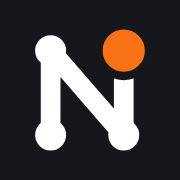
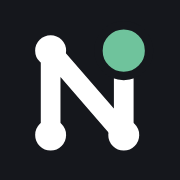
Switch the brand accent from orange to Travelpin's pin green
Logo dot, favicon and app icons, share images, live tag, story rings, key moments and highlights now use #4B9C78, with #2B6F51 for text on light backgrounds and #6FC39C in dark mode. Category and rate-hike colours are unchanged.

Claude-Session: https://claude.ai/code/session_01XiGkiipVdDWiMyZxtu2FGu

Changed region(s): [[0.5556, 0.1389, 0.8056, 0.4167]]

diff --git a/static/styles.css b/static/styles.css
@@ -1,6 +1,6 @@
 :root{color-scheme:light;
   --bg:#F7F7F4; --surface:#FFFFFF; --ink:#15171C; --ink-2:#3A3F4A; --muted:#4A4F59; --line:#E3E3DE; --line-2:#ECECE7;
-  --blue:#1D4ED8; --blue-bg:#E8EEFD; --blue-line:#B9C7EE; --orange:#C2410C; --orange-ink:#9A3412; --orange-bg:#FCEBDD;
+  --blue:#1D4ED8; --blue-bg:#E8EEFD; --blue-line:#B9C7EE; --orange:#C2410C; --pin:#4B9C78; --pin-ink:#2B6F51; --pin-bg:#E8F4EE; --orange-ink:#9A3412; --orange-bg:#FCEBDD;
   --teal:#0F6B5C; --teal-ink:#0F5B4E; --teal-bg:#E3F2EE; --purple:#5B3A9A; --purple-bg:#F3EEFB; --gray-bg:#EEEEEA;
   --serif:"Newsreader",Georgia,"Times New Roman",serif; --sans:"Inter",system-ui,-apple-system,"Segoe UI",Roboto,sans-serif;
 }
@@ -48,7 +48,7 @@ button{font-family:inherit}
 .pill-cat{background:var(--c-bg);color:var(--c-ink)}
 .status{display:inline-flex;align-items:center;gap:7px;font-size:12px;font-weight:700;background:#fff;padding:5px 10px;border-radius:999px}
 .status::before{content:"";width:8px;height:8px;border-radius:50%;background:currentColor}
-.tone-hot{color:var(--orange-ink)} .tone-live{color:var(--teal)} .tone-wait{color:var(--blue)} .tone-quiet{color:var(--muted)}
+.tone-hot{color:var(--pin-ink)} .tone-live{color:var(--teal)} .tone-wait{color:var(--blue)} .tone-quiet{color:var(--muted)}
 .tone-hot::before{animation:npPulse 1.8s ease-out infinite}
 @keyframes npPulse{0%{box-shadow:0 0 0 0 rgba(194,65,12,.45)}70%{box-shadow:0 0 0 10px rgba(194,65,12,0)}100%{box-shadow:0 0 0 0 rgba(194,65,12,0)}}
 @media (prefers-reduced-motion:reduce){*{animation:none!important;transition:none!important}}
@@ -84,7 +84,7 @@ button{font-family:inherit}
 .cal ol{margin:0;padding:0;list-style:none}
 .cal li{display:flex;gap:14px;padding:10px 0;border-bottom:1px solid var(--line-2)} .cal li:last-child{border-bottom:0}
 .cal .when{flex:0 0 108px;font-size:13px;font-weight:700}
-.cal .when.today{color:var(--orange-ink)}
+.cal .when.today{color:var(--pin-ink)}
 .cal .what{font-size:14px;line-height:1.45} .cal .what a{color:var(--muted);text-decoration:none} .cal .what a:hover{text-decoration:underline}
 .chain{background:var(--surface);border:1px solid var(--line);border-radius:18px;padding:20px 24px;display:flex;flex-direction:column;gap:12px;margin-top:24px}
 .chain-head{display:flex;flex-wrap:wrap;justify-content:space-between;gap:8px;align-items:baseline}
@@ -101,7 +101,7 @@ button{font-family:inherit}
 .cards{display:flex;flex-wrap:wrap;gap:18px}
 .card{background:var(--surface);border:1px solid var(--line);border-radius:20px;overflow:hidden;display:flex;flex-direction:column;min-width:0;flex:1 1 260px}
 .card.featured{flex:1 1 520px}
-.card.hot{border:2px solid var(--orange)}
+.card.hot{border:2px solid var(--pin)}
 .card[hidden]{display:none}
 .card-band{background:var(--c-bg);padding:18px 20px;display:flex;flex-direction:column;gap:6px}
 .card-band .row{display:flex;align-items:center;justify-content:space-between;gap:8px}
@@ -156,7 +156,7 @@ button{font-family:inherit}
 .keynums .l{font-size:12px;color:var(--muted)}
 .keynums .v{font-family:var(--serif);font-size:28px;font-weight:600;line-height:1.15}
 .keynums .v.word{font-size:21px;padding-top:4px}
-.keynums .n{font-size:12px;color:var(--muted)} .keynums .n.hot{color:var(--orange-ink);font-weight:600}
+.keynums .n{font-size:12px;color:var(--muted)} .keynums .n.hot{color:var(--pin-ink);font-weight:600}
 .story-track{background:var(--surface);border:1px solid var(--line);border-radius:16px;padding:16px 20px 10px}
 .newbar{background:var(--ink);color:#fff;border-radius:16px;padding:18px 22px;display:flex;flex-wrap:wrap;align-items:center;justify-content:space-between;gap:14px}
 .newbar[hidden]{display:none}
@@ -179,7 +179,7 @@ button{font-family:inherit}
 .ev-rail .d{width:14px;height:14px;border-radius:50%;box-sizing:border-box}
 .ev-card{flex:1 1 auto;min-width:0;padding:8px 0 14px}
 .ev-card article{background:#fff;border:1px solid var(--line);border-radius:14px;padding:16px 20px;display:flex;flex-direction:column;gap:10px}
-.ev.key .ev-card article{border:2px solid var(--orange);box-shadow:0 6px 18px rgba(194,65,12,.10)}
+.ev.key .ev-card article{border:2px solid var(--pin);box-shadow:0 6px 18px rgba(75,156,120,.14)}
 .ev-tags{display:flex;flex-wrap:wrap;gap:8px;align-items:center}
 .ev-status{font-size:12px;color:var(--muted);display:inline-flex;align-items:center;gap:4px}
 .badge-new{font-size:12px;font-weight:700;padding:3px 9px;border-radius:999px;background:var(--ink);color:#fff}
@@ -293,7 +293,7 @@ button{font-family:inherit}
 .bubbles::-webkit-scrollbar{display:none}
 .bubble{display:flex;flex-direction:column;align-items:center;gap:6px;width:78px;background:none;border:0;padding:0;cursor:pointer;color:var(--ink);font-family:inherit}
 .bubble .ring{width:64px;height:64px;border-radius:50%;border:3px solid var(--line);padding:3px;box-sizing:border-box;display:block}
-.bubble.new .ring{border-color:#F0531C}
+.bubble.new .ring{border-color:var(--pin)}
 .bubble .face{width:100%;height:100%;border-radius:50%;display:flex;align-items:center;justify-content:center;color:#fff;font-family:"Inter Tight",var(--sans);font-weight:800;font-size:20px}
 .bubble .bl{font-size:12px;font-weight:600;max-width:78px;white-space:nowrap;overflow:hidden;text-overflow:ellipsis}
 .bubble:hover .ring{transform:scale(1.05)}
@@ -302,8 +302,8 @@ button{font-family:inherit}
 .lead{--surface:#151821;--ink:#F2F4F7;--muted:#A3AAB8;--line:#252A35;background:#0B0D12;color:#F2F4F7;border-radius:28px;padding:40px 44px;display:flex;flex-wrap:wrap;gap:28px;margin-top:22px}
 .lead-main{flex:7 1 420px;min-width:0;display:flex;flex-direction:column;gap:16px}
 .lead-tags{display:flex;flex-wrap:wrap;gap:12px;align-items:center}
-.live-tag{display:inline-flex;align-items:center;gap:8px;font-size:12px;font-weight:700;letter-spacing:.06em;text-transform:uppercase;color:#FF7A45}
-.live-tag::before{content:"";width:8px;height:8px;border-radius:50%;background:#FF7A45;box-shadow:0 0 0 4px rgba(255,122,69,.2);animation:npPulse 1.8s ease-out infinite}
+.live-tag{display:inline-flex;align-items:center;gap:8px;font-size:12px;font-weight:700;letter-spacing:.06em;text-transform:uppercase;color:#6FC39C}
+.live-tag::before{content:"";width:8px;height:8px;border-radius:50%;background:#6FC39C;box-shadow:0 0 0 4px rgba(111,195,156,.22);animation:npPulse 1.8s ease-out infinite}
 .lead-cat{font-size:12px;font-weight:700;letter-spacing:.08em;text-transform:uppercase;color:#A3AAB8}
 .lead h2{margin:0;font-family:"Inter Tight",var(--sans);font-size:clamp(34px,5vw,60px);line-height:1.03;font-weight:800;letter-spacing:-.035em}
 .lead h2 a{color:inherit;text-decoration:none} .lead h2 a:hover{text-decoration:underline;text-decoration-thickness:3px}
@@ -318,7 +318,7 @@ button{font-family:inherit}
 .lead-stat .lbl2{font-size:12px;font-weight:700;letter-spacing:.08em;text-transform:uppercase;color:#A3AAB8;display:block;margin-bottom:6px}
 .lead-stat div{display:flex;flex-wrap:wrap;align-items:baseline;gap:12px}
 .lead-big{font-family:"Inter Tight",var(--sans);font-size:clamp(44px,6vw,68px);font-weight:800;letter-spacing:-.04em;line-height:1}
-.lead-delta{font-size:15px;font-weight:700;color:#FF7A45}
+.lead-delta{font-size:15px;font-weight:700;color:#6FC39C}
 .lead-note{font-size:13px;color:#A3AAB8}
 .lead .track .tl-top{color:#F2F4F7} .lead .track .now{background:#F2F4F7} .lead .track .now-l{color:#F2F4F7} .lead .track .next-l{color:#9DB2FF}
 .lead .track .past{opacity:.5}
@@ -327,7 +327,7 @@ button{font-family:inherit}
 .strip{display:flex;flex-wrap:wrap;align-items:center;gap:8px;margin-top:18px}
 .strip-l{font-size:12px;font-weight:800;letter-spacing:.1em;text-transform:uppercase;color:var(--muted);margin-left:6px}
 .strip-l:first-child{margin-left:0}
-.strip-l.hot{color:#C93D0E}
+.strip-l.hot{color:var(--pin-ink)}
 .tchip{padding:8px 14px;border-radius:999px;background:var(--surface);border:1px solid var(--line);font-size:13px;font-weight:600;color:var(--ink);text-decoration:none}
 .tchip:hover{border-color:var(--muted);color:var(--ink)}
 
@@ -393,9 +393,9 @@ button{font-family:inherit}
 [data-theme="dark"] .btn-follow{background:#3D63F5;border-color:#3D63F5}
 [data-theme="dark"] .btn-follow[aria-pressed="true"]{background:#1A2447;color:#B9C7FF;border-color:#33447A}
 [data-theme="dark"] .status{background:#0B0D12}
-[data-theme="dark"] .tone-hot{color:#FF9E73} [data-theme="dark"] .tone-live{color:#5FC7AE} [data-theme="dark"] .tone-wait{color:#8FA8FF}
+[data-theme="dark"] .tone-hot{color:#7DD3AA} [data-theme="dark"] .tone-live{color:#5FC7AE} [data-theme="dark"] .tone-wait{color:#8FA8FF}
 [data-theme="dark"] .delta{background:rgba(0,0,0,.35)}
-[data-theme="dark"] .card.hot,[data-theme="dark"] .ev.key .ev-card article{border-color:#FF7A45}
+[data-theme="dark"] .card.hot,[data-theme="dark"] .ev.key .ev-card article{border-color:#6FC39C}
 [data-theme="dark"] .latest .d{background:#F2F4F7;color:#0B0D12}
 [data-theme="dark"] .seg{background:#1E222B} [data-theme="dark"] .seg button[aria-pressed="true"]{background:#2A2F3B;color:var(--ink);box-shadow:none}
 [data-theme="dark"] .ev-card article{background:var(--surface);border-color:var(--line)}
@@ -408,7 +408,7 @@ button{font-family:inherit}
 [data-theme="dark"] .toast{background:#F2F4F7;color:#0B0D12}
 [data-theme="dark"] .ev-rail .l1,[data-theme="dark"] .ev-rail .l2,[data-theme="dark"] .tl-b .tl-wrap::before{background:#2E3440}
 [data-theme="dark"] .lead{background:#000;border:1px solid #1E222B}
-[data-theme="dark"] .strip-l.hot{color:#FF9E73}
+[data-theme="dark"] .strip-l.hot{color:#7DD3AA}
 [data-theme="dark"] input{background:var(--surface);color:var(--ink);border-color:var(--line)}
 [data-theme="dark"] .track .tl-top,[data-theme="dark"] .track .now-l{color:var(--ink)} [data-theme="dark"] .track .now{background:var(--ink)}
 [data-theme="dark"] .track .next-l{color:#9DB2FF}
@@ -425,15 +425,15 @@ button{font-family:inherit}
 .np-player{position:fixed;left:50%;bottom:16px;transform:translateX(-50%);z-index:60;width:min(640px,calc(100vw - 24px));box-sizing:border-box;display:flex;align-items:center;gap:12px;padding:10px 10px 10px 18px;border-radius:20px;background:#0B0D12;color:#F2F4F7;box-shadow:0 10px 30px rgba(0,0,0,.25)}
 .np-player[hidden]{display:none}
 .pl-info{flex:1 1 auto;min-width:0;display:flex;flex-direction:column}
-.pl-kick{font-size:11px;font-weight:800;letter-spacing:.08em;text-transform:uppercase;color:#FF7A45}
+.pl-kick{font-size:11px;font-weight:800;letter-spacing:.08em;text-transform:uppercase;color:#6FC39C}
 .pl-now{font-size:14px;font-weight:600;white-space:nowrap;overflow:hidden;text-overflow:ellipsis}
 .pl-ctrls{display:flex;gap:6px;flex:0 0 auto}
 .pl-ctrls button{min-width:44px;height:44px;border-radius:50%;border:0;background:#1E222B;color:#fff;font:700 14px/1 var(--sans);cursor:pointer}
 .pl-ctrls .pl-pp{background:#fff;color:#0B0D12}
 .pl-ctrls .pl-rate{border-radius:999px;padding:0 10px}
-.pl-ctrls button:focus-visible,.briefing-btn:focus-visible{outline:2px solid #FF7A45;outline-offset:2px}
+.pl-ctrls button:focus-visible,.briefing-btn:focus-visible{outline:2px solid var(--pin);outline-offset:2px}
 body.has-player{padding-bottom:90px}
-.ev.speaking .ev-card article{box-shadow:0 0 0 3px #FF7A45}
+.ev.speaking .ev-card article{box-shadow:0 0 0 3px var(--pin)}
 .sm-tools{display:flex;gap:8px}
 .sm-listen{width:44px;height:44px;border-radius:50%;border:0;background:rgba(255,255,255,.15);color:#fff;font-size:18px;cursor:pointer}
 .sm-listen[aria-pressed="true"]{background:#fff}
@@ -443,3 +443,5 @@ body.has-player{padding-bottom:90px}
 [data-theme="dark"] .pl-ctrls .pl-pp{background:#F2F4F7;color:#0B0D12}
 .tl-order{margin:0 0 12px;font-size:12px;font-weight:700;letter-spacing:.08em;text-transform:uppercase;color:var(--muted)}
 .foot-note{flex-basis:100%;margin:6px 0 0;font-size:12px;color:var(--muted)}
+
+[data-theme="dark"]{--pin:#6FC39C;--pin-ink:#7DD3AA;--pin-bg:#12291F}

diff --git a/build.py b/build.py
@@ -42,8 +42,8 @@ ICON_SHARE = '<svg width="18" height="18" viewBox="0 0 24 24" fill="none" stroke
 ICON_CHEV = '<svg class="chev" width="16" height="16" viewBox="0 0 24 24" fill="none" stroke="currentColor" stroke-width="2.2" stroke-linecap="round" stroke-linejoin="round" aria-hidden="true"><polyline points="6 9 12 15 18 9"></polyline></svg>'
 ICON_CHECK = '<svg width="14" height="14" viewBox="0 0 24 24" fill="none" stroke="currentColor" stroke-width="2.2" stroke-linecap="round" stroke-linejoin="round" aria-hidden="true"><polyline points="20 6 9 17 4 12"></polyline></svg>'
 ICON_WARN = '<svg width="18" height="18" viewBox="0 0 24 24" fill="none" stroke="#9A3412" stroke-width="2" stroke-linecap="round" stroke-linejoin="round" aria-hidden="true"><path d="M10.29 3.86 1.82 18a2 2 0 0 0 1.71 3h16.94a2 2 0 0 0 1.71-3L13.71 3.86a2 2 0 0 0-3.42 0z"></path><line x1="12" y1="9" x2="12" y2="13"></line><line x1="12" y1="17" x2="12.01" y2="17"></line></svg>'
-LOGO_SVG = '<svg width="30" height="30" viewBox="0 0 64 64" aria-hidden="true"><path d="M16 50V14L48 50V14" fill="none" stroke="currentColor" stroke-width="6" stroke-linecap="round" stroke-linejoin="round"></path><circle cx="16" cy="50" r="5" fill="currentColor"></circle><circle cx="16" cy="14" r="5" fill="currentColor"></circle><circle cx="48" cy="50" r="5" fill="currentColor"></circle><circle cx="48" cy="14" r="8" fill="#C2410C" stroke="var(--surface,#fff)" stroke-width="3"></circle></svg>'
-FAVICON = '<svg xmlns="http://www.w3.org/2000/svg" viewBox="0 0 64 64"><rect width="64" height="64" rx="15" fill="#15171C"/><path d="M18 48V18L44 48V18" fill="none" stroke="#FFFFFF" stroke-width="7" stroke-linecap="round" stroke-linejoin="round"/><circle cx="18" cy="48" r="5.5" fill="#FFFFFF"/><circle cx="18" cy="18" r="5.5" fill="#FFFFFF"/><circle cx="44" cy="48" r="5.5" fill="#FFFFFF"/><circle cx="44" cy="18" r="9" fill="#F97316" stroke="#15171C" stroke-width="3"/></svg>'
+LOGO_SVG = '<svg width="30" height="30" viewBox="0 0 64 64" aria-hidden="true"><path d="M16 50V14L48 50V14" fill="none" stroke="currentColor" stroke-width="6" stroke-linecap="round" stroke-linejoin="round"></path><circle cx="16" cy="50" r="5" fill="currentColor"></circle><circle cx="16" cy="14" r="5" fill="currentColor"></circle><circle cx="48" cy="50" r="5" fill="currentColor"></circle><circle cx="48" cy="14" r="8" fill="var(--pin,#4B9C78)" stroke="var(--surface,#fff)" stroke-width="3"></circle></svg>'
+FAVICON = '<svg xmlns="http://www.w3.org/2000/svg" viewBox="0 0 64 64"><rect width="64" height="64" rx="15" fill="#15171C"/><path d="M18 48V18L44 48V18" fill="none" stroke="#FFFFFF" stroke-width="7" stroke-linecap="round" stroke-linejoin="round"/><circle cx="18" cy="48" r="5.5" fill="#FFFFFF"/><circle cx="18" cy="18" r="5.5" fill="#FFFFFF"/><circle cx="44" cy="48" r="5.5" fill="#FFFFFF"/><circle cx="44" cy="18" r="9" fill="#6FC39C" stroke="#15171C" stroke-width="3"/></svg>'
 
 
 def src_link(src):
@@ -769,7 +769,7 @@ def build_og(site, stories, order, axis):
         sx, sy, k = 56, 50, 44 / 64
         pt = lambda x, y: (sx + x * k, sy + y * k)
         dr.line([pt(16, 50), pt(16, 14), pt(48, 50), pt(48, 14)], fill="#FFFFFF", width=5, joint="curve")
-        for (cx, cy, r, col) in [(16, 50, 5, "#FFFFFF"), (16, 14, 5, "#FFFFFF"), (48, 50, 5, "#FFFFFF"), (48, 14, 9, "#F97316")]:
+        for (cx, cy, r, col) in [(16, 50, 5, "#FFFFFF"), (16, 14, 5, "#FFFFFF"), (48, 50, 5, "#FFFFFF"), (48, 14, 9, "#6FC39C")]:
             x, y = pt(cx, cy); rr = r * k
             dr.ellipse((x - rr, y - rr, x + rr, y + rr), fill=col)
         dr.text((116, 50), "Newspin", font=serif(36), fill="#FFFFFF")
@@ -786,7 +786,7 @@ def build_og(site, stories, order, axis):
             dr.line((x0, ty, x1, ty), fill="#3A3F4A", width=3)
             for ev in s["events"]:
                 px = x0 + (x1 - x0) * axis.pos(ev["date"]) / 100
-                dr.ellipse((px - 8, ty - 8, px + 8, ty + 8), fill="#FFFFFF" if ev is not s["events"][-1] else "#F97316")
+                dr.ellipse((px - 8, ty - 8, px + 8, ty + 8), fill="#FFFFFF" if ev is not s["events"][-1] else "#6FC39C")
             dr.text((x0, ty + 16), str(axis.years[0]), font=reg(20), fill="#9CA3AF")
             dr.text((x1 - 50, ty + 16), "Now", font=semi(20), fill="#FFFFFF")
         im.save(path, optimize=True)
